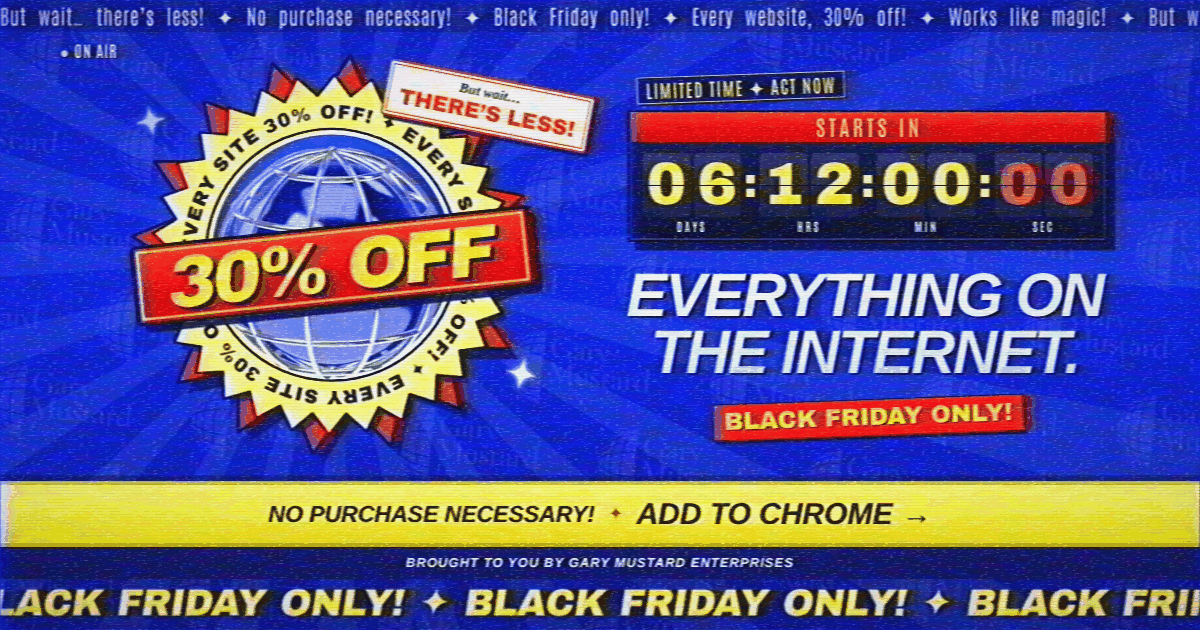
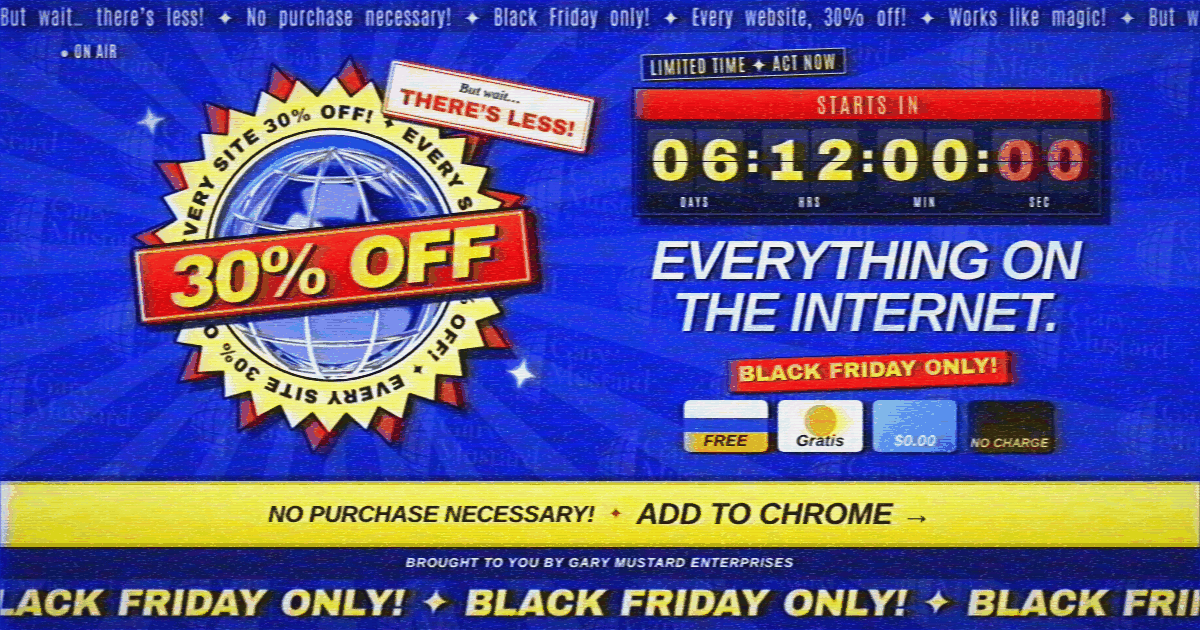
Website: work in progress on the Globe Badge look
Claude-Session: https://claude.ai/code/session_01NWuCfpnnkXbDHA2WA7GWBY

diff --git a/website/src/style.css b/website/src/style.css
@@ -63,14 +63,14 @@ body { -webkit-font-smoothing: antialiased; -webkit-tap-highlight-color: transpa
 
 /* ---- the stage: the badge, the clock, the words ---- */
 .stage { flex: 1 1 0 !important; min-height: 0; width: 100%; max-width: calc(1440 * var(--s)); margin: 0 auto; display: grid;
-         grid-template: "badge clock" 47fr "badge words" 53fr / 50fr 50fr; padding: calc(16 * var(--s)) calc(40 * var(--s)) calc(20 * var(--s)); }
-.tall .stage { grid-template: "badge" 430fr "clock" 140fr "words" 160fr / 100%; padding: calc(10 * var(--s)) calc(14 * var(--s)) calc(14 * var(--s)); }
+         grid-template: "badge clock" 41fr "badge words" 59fr / 50fr 50fr; padding: calc(16 * var(--s)) calc(40 * var(--s)) calc(20 * var(--s)); }
+.tall .stage { grid-template: "badge" 380fr "clock" 128fr "words" 220fr / 100%; padding: calc(10 * var(--s)) calc(14 * var(--s)) calc(14 * var(--s)); }
 .badge-box { grid-area: badge; position: relative; min-height: 0; container-type: size; }
 .clock-box { grid-area: clock; position: relative; min-width: 0; min-height: 0; z-index: 2; }
 .words-box { grid-area: words; position: relative; min-width: 0; min-height: 0; z-index: 1; }
 /* in a wide window the clock and the words sit together as one column beside the badge */
 .wide .clock-box .fit { top: auto; bottom: 0; transform: translate(-50%, 0); }
-.wide .words-box .fit { top: calc(30 * var(--s)); transform: translate(-50%, 0); }
+.wide .words-box .fit { top: calc(22 * var(--s)); transform: translate(-50%, 0); }
 
 /* ---- the badge: a red 16-point burst behind a yellow 30-point one, each over a navy shadow, turning
    opposite ways; the words round the yellow one's rim; the globe on its blue plate; 30% OFF on the red
@@ -149,6 +149,17 @@ body { -webkit-font-smoothing: antialiased; -webkit-tap-highlight-color: transpa
 .tag { font: 400 0.4em/1 "Archivo Black", "Arial Black", sans-serif; letter-spacing: -0.01em; color: var(--yellow); background: var(--red);
        border: 0.07em solid #000; padding: 0.2em 0.42em 0.24em; margin-top: 0.55em; box-shadow: 0.12em 0.12em 0 var(--navy);
        transform: rotate(-2deg); text-shadow: 0.05em 0.05em 0 #7a0006; }
+
+/* the four cards, as on the banner: a row 436 x 62 there, here in em of their 19 px labels */
+.cards { display: flex; gap: 0.632em; margin-top: 0.75em; font: italic 700 0.29em/1 "Arimo", Arial, sans-serif; letter-spacing: 0.02em; }
+.cards i { flex: none; position: relative; display: block; width: 5.263em; height: 3.263em; border-radius: 0.368em; overflow: hidden;
+           box-shadow: 0.158em 0.158em 0 rgba(6, 8, 70, 0.85); }
+.cards b { position: absolute; left: 0; right: 0; bottom: 0.263em; text-align: center; }
+.cards .c1 { background: linear-gradient(#f4f4f4 0 34%, #1c3fd1 34% 62%, #f1b400 62%); color: #111; }
+.cards .c2 { background: radial-gradient(circle at 50% 40%, #ffb300 0 30%, transparent 31%), #f6f6f6; color: #111; }
+.cards .c3 { background: linear-gradient(135deg, #7fd4ff, #2a79d8); color: #fff; }
+.cards .c4 { background: linear-gradient(#151515, #3a2a00); color: #ffcf2e; }
+.cards .c4 b { font-size: 0.763em; }
 
 /* ---- the yellow tape: the one link, to the store ---- */
 .order { display: block; height: calc(var(--tape) * var(--s)); text-decoration: none; cursor: pointer; color: #111; z-index: 4 !important;

diff --git a/website/src/main.js b/website/src/main.js
@@ -137,7 +137,7 @@ function layout() {
   root.style.setProperty('--s', `${s}px`);
 
   fit($('.timer'), tall ? { w: 0.9, h: 0.94 } : { w: 0.9, h: 0.96 });
-  fit($('.words'), tall ? { w: 0.94, h: 0.94 } : { w: 0.9, h: 0.8 });
+  fit($('.words'), tall ? { w: 0.94, h: 0.96 } : { w: 0.9, h: 0.88 });
   fit($('.order .fit'), tall ? { w: 0.9, h: 0.72 } : { w: 0.9, h: 0.46 });
   fit($('.by .fit'), { w: 0.92, h: 0.42 });
 

diff --git a/website/src/index.html b/website/src/index.html
@@ -85,6 +85,7 @@
         <div class="fit words">
           <h2 class="sub"><span>EVERYTHING ON</span> <span>THE INTERNET.</span></h2>
           <p class="tag">BLACK FRIDAY ONLY!</p>
+          <div class="cards" aria-hidden="true"><i class="c1"><b>FREE</b></i><i class="c2"><b>Gratis</b></i><i class="c3"><b>$0.00</b></i><i class="c4"><b>NO CHARGE</b></i></div>
         </div>
       </div>
     </main>

diff --git a/website/README.md b/website/README.md
@@ -4,8 +4,8 @@ A one-screen Black Friday countdown for the Chrome extension **30% Off EVERYTHIN
 Gary Mustard Enterprises), in the same look as the extension's banner and the store images and posts
 ("Globe Badge", see `socials/templates/v-starburst-post.html` and `extension/src/content.js`). The
 badge (the red and yellow starbursts, the globe, 30% OFF on its sash, BUT WAIT… THERE'S LESS! stamped on
-its shoulder) beside a split-flap clock; EVERYTHING ON THE INTERNET. and the red BLACK FRIDAY ONLY! tag;
-the yellow tape; the navy credit; the ticker along the top and the crawl along the bottom; all on the
+its shoulder) beside a split-flap clock; EVERYTHING ON THE INTERNET., the red BLACK FRIDAY ONLY! tag and
+the four cards (FREE, Gratis, $0.00, NO CHARGE); the yellow tape; the navy credit; the ticker along the top and the crawl along the bottom; all on the
 royal-blue tube with its rays and faint marks, through the banner's VHS tape filter. One link: the
 yellow tape, ADD TO CHROME, to the Chrome Web Store.
 
@@ -61,18 +61,21 @@ browser's dev tools.
   plate, globe, sash, stamp, glints) is placed in em, with the banner's own proportions.
 - `src/gl/bg.glsl` draws the background under the page with WebGL: the royal-blue tube gradient, the
   maker's mark tiled at 9.5% (`src/images/tile.png`, as the banner's), 24 pale rays turning round the
-  badge, and the glow behind it.
+  badge, and the glow behind it. On Black Friday, all day, it draws the same in warm sun tones instead
+  (orange to red, sun-yellow rays, a hot glow); before and after the day it is the blue look.
 - The tape look is the banner's own SVG filter (`#tape`, in `index.html`) on the whole picture, plus
   CSS scanlines and dark corners (`.lines`). If the page then draws under 24 frames a second, the filter
   is taken off (and put back if that made no difference).
-- Without WebGL the page still works: a CSS gradient and a CSS glow behind the badge.
-- Black Friday mode, in the same colours: the bursts and rays spin fast, 30% OFF pumps, the stamp thuds
-  every 2 s, the tag jolts, the clock glows, the crawl adds TODAY ONLY!, and a yellow TODAY ONLY! tape
-  slams across the screen every 9 seconds. On every other 0.25 s beat, all in step, the sash and the
-  tag flip red/yellow, the clock's header and glow flare, the rays flash yellow and the screen's rim
-  red: 2 flashes a second, under WCAG 2.3.1's limit of 3.
-- With `prefers-reduced-motion` nothing moves: a still globe, still bursts and rays, still tape noise,
-  no flashing and no takeover. The clock still counts.
+- Without WebGL the page still works: a CSS gradient and a CSS glow behind the badge (warm on the day).
+- Black Friday mode: the warm ground, and the bands and tag recoloured to read on it; the bursts and
+  rays spin fast, 30% OFF pumps, the stamp thuds every 2 s, the tag jolts, the clock glows, the crawl
+  adds TODAY ONLY!, and a yellow TODAY ONLY! tape slams across the screen every 9 seconds. On every
+  other 0.25 s beat, all in step, the sash and the tag flip red/yellow, the clock's header and glow
+  flare, and the rays and the screen's rim flash yellow: 2 flashes a second, under WCAG 2.3.1's limit
+  of 3.
+- With `prefers-reduced-motion` nothing moves: a still globe (a blue-facing frame), still bursts and
+  rays, still tape noise, no flashing and no takeover; on the day, the warm palette, still. The clock
+  still counts.
 
 ## Checking
 
